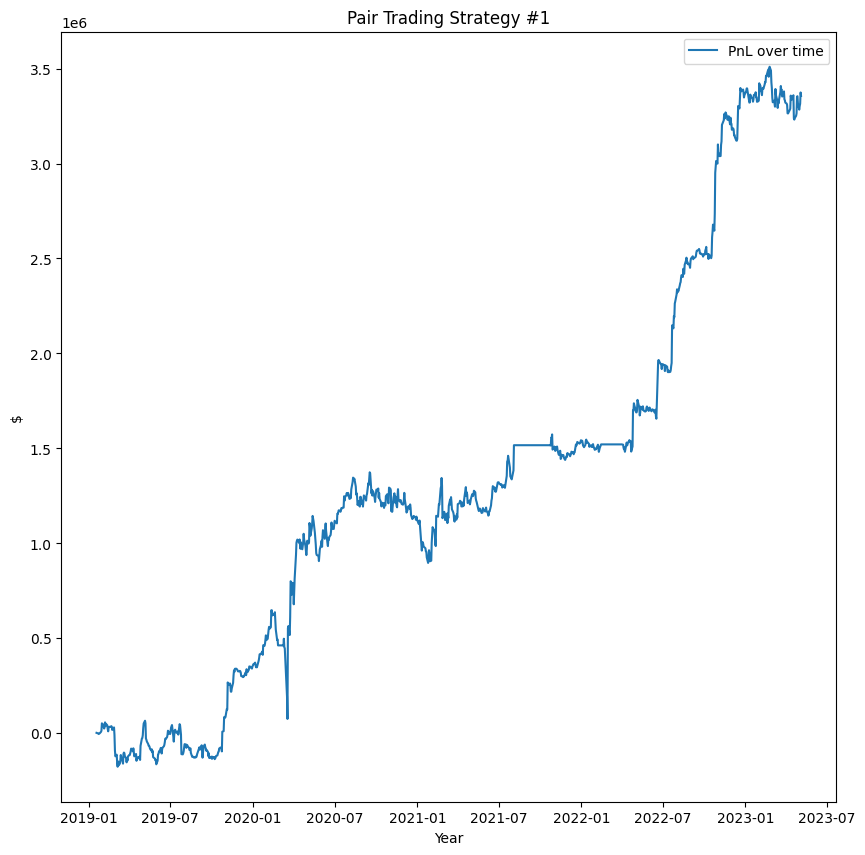
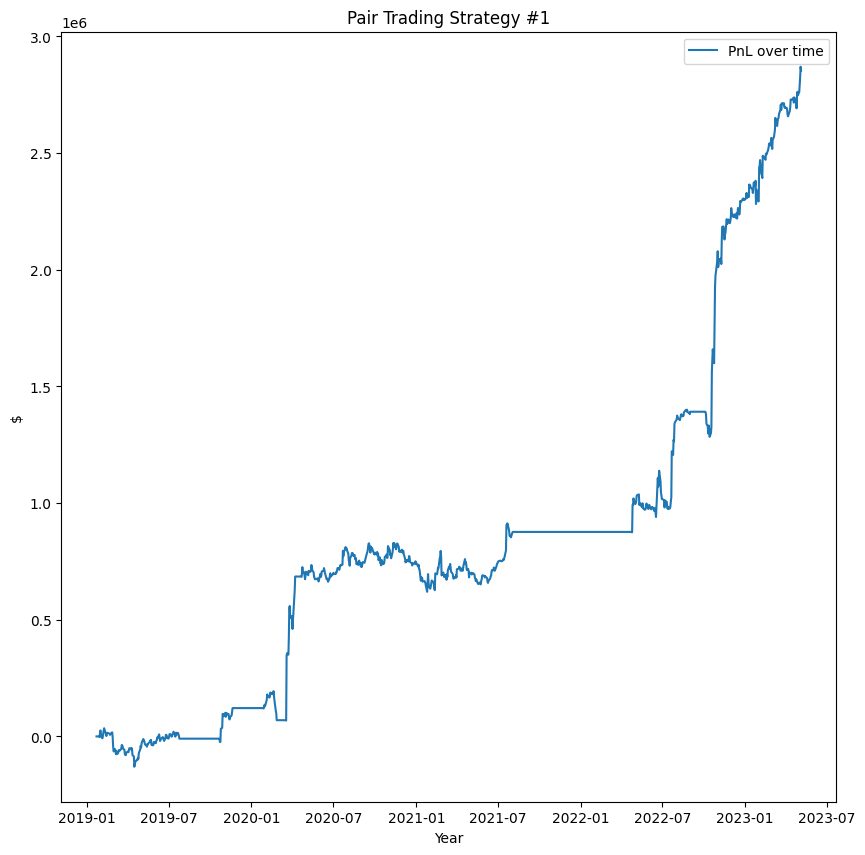
update strategy 1

diff --git a/content/featured/Strategy 1/index.md b/content/featured/Strategy 1/index.md
@@ -15,9 +15,9 @@ Stock-pairs were incorporated into the strategy at varying time periods, wheneve
 
 From Jan'19 to present:
 
-- Maximum lifetime loss\* = -$175,777.08
-- Maximum lifetime profit = $3,509,508.58
-- TTM profit = $1,600,660.82
+- Maximum lifetime loss\* = -$129,918.62
+- Maximum lifetime profit = $2,870,243.33
+- TTM profit = $1,820,094.81
 
 \*Losses include trading costs.
 
